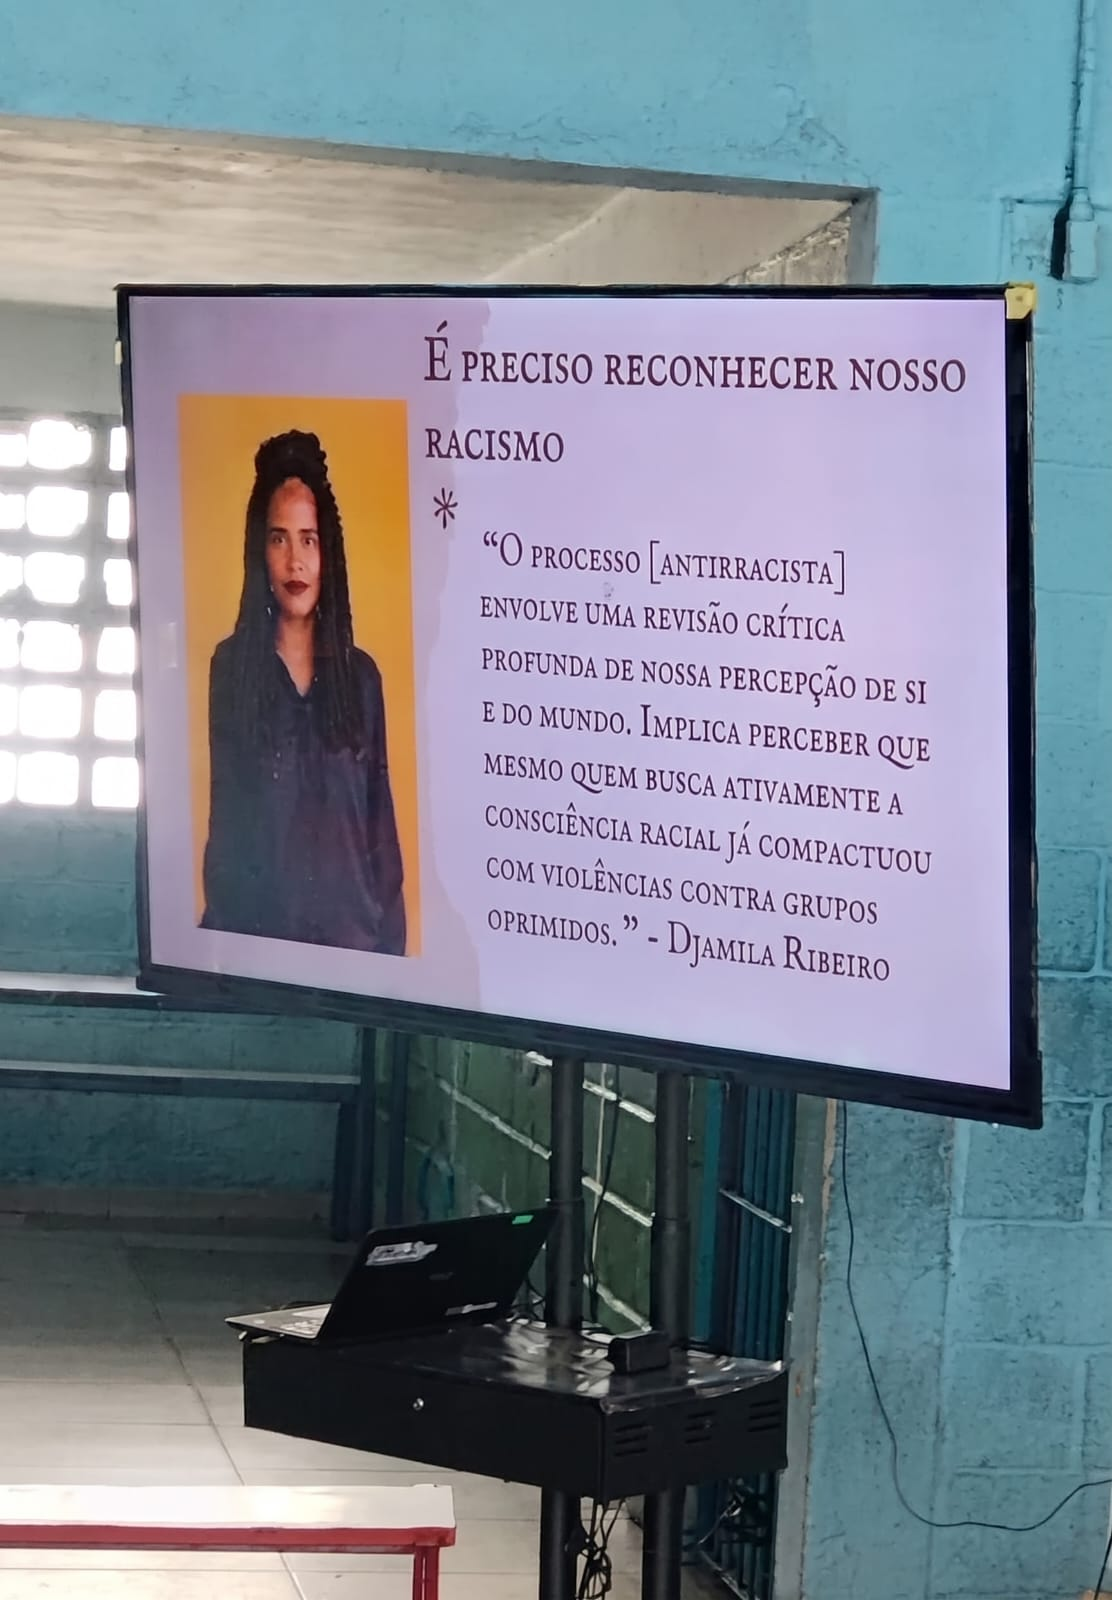
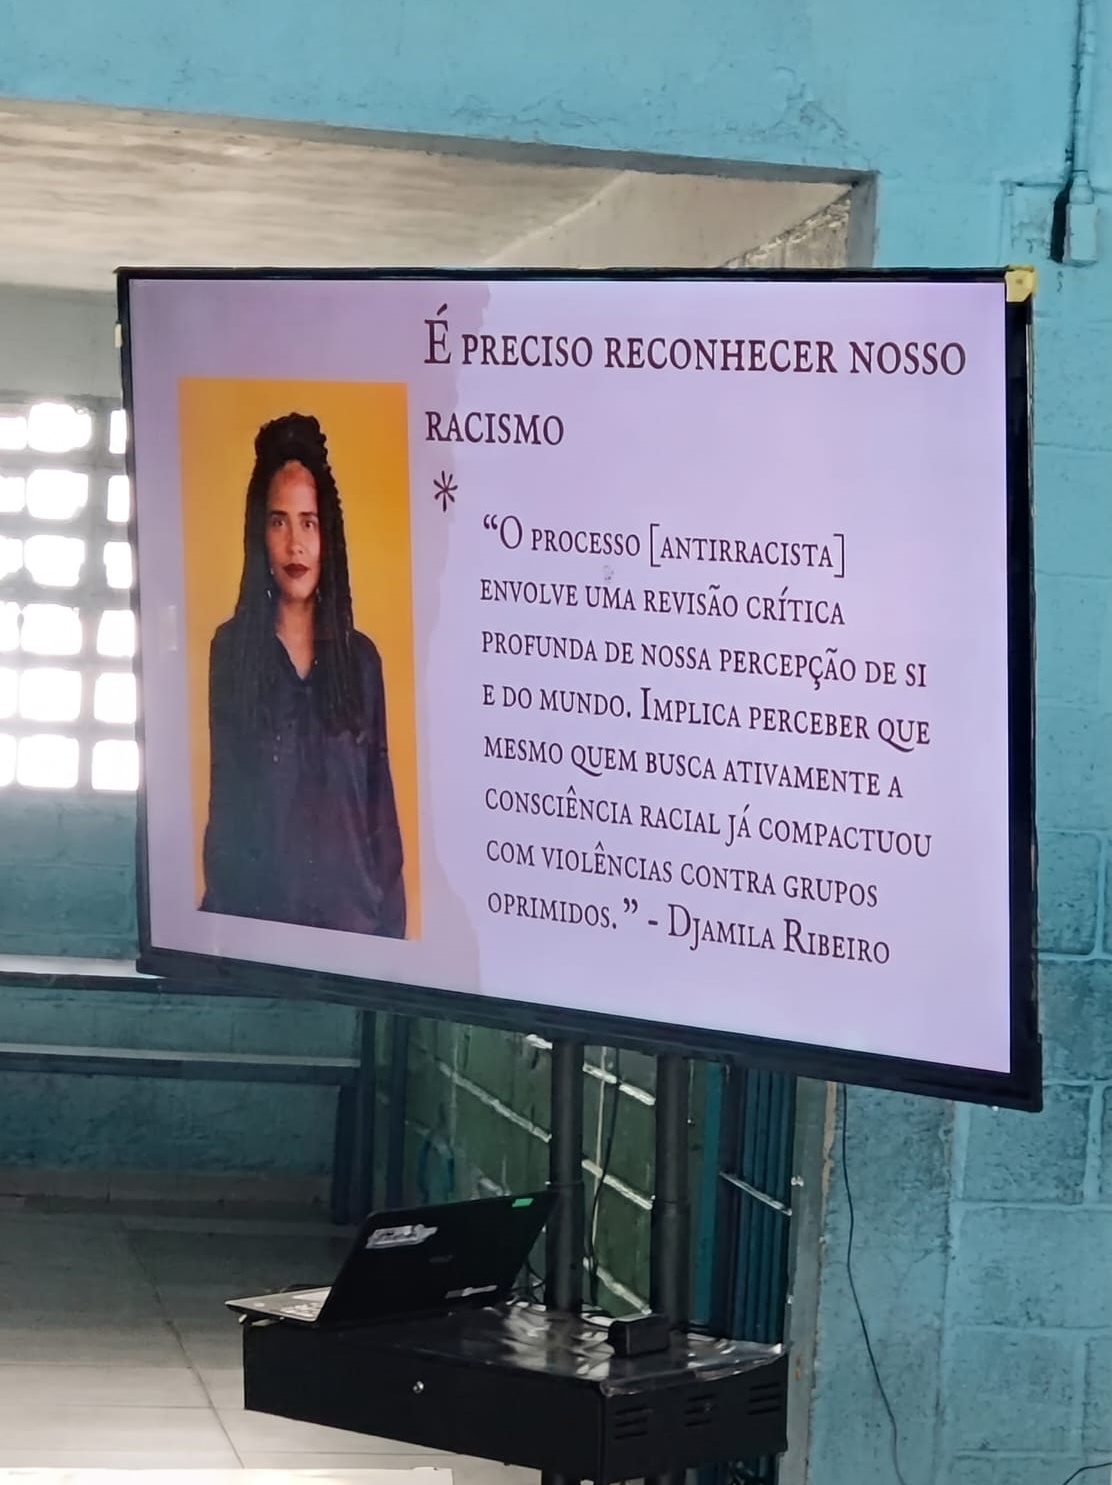
Adiciona componente Carrossel de imagens e atualiza projetos com novas imagens

diff --git a/README.md b/README.md
@@ -348,6 +348,16 @@ Pendente:
 - Nunca inventar dados da escola. Quando faltar informação, perguntar ou usar campo configurável com texto provisório claramente marcado.
 - Informar ao final de cada etapa o que atualizar neste README.
 
+## Carrossel de imagens nos projetos
+
+- Criado o componente `src/components/CarrosselCapa.astro`.
+- O componente permite alternar imagens automaticamente a cada 4 segundos.
+- Possui controles manuais opcionais (setas).
+- Respeita a preferência de acessibilidade `prefers-reduced-motion`.
+- Na página individual, o projeto `educador-003` utiliza imagens da banda e do Felipe Johnny.
+- A galeria original do projeto permanece independente do carrossel.
+- A integração do carrossel no cartão da página de projetos ainda está pendente.
+
 ### Etapas do desenvolvimento
 
 1. Planejamento técnico e visual (concluída).
